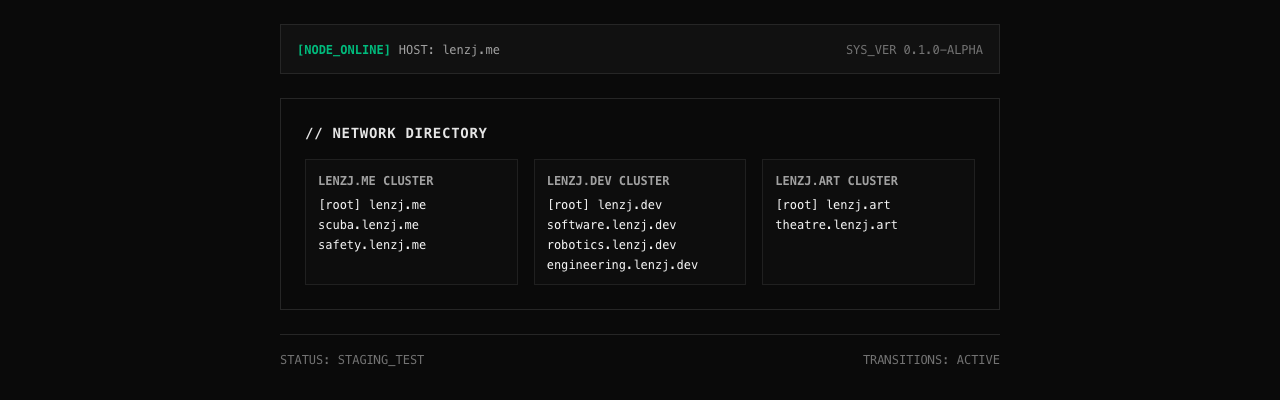
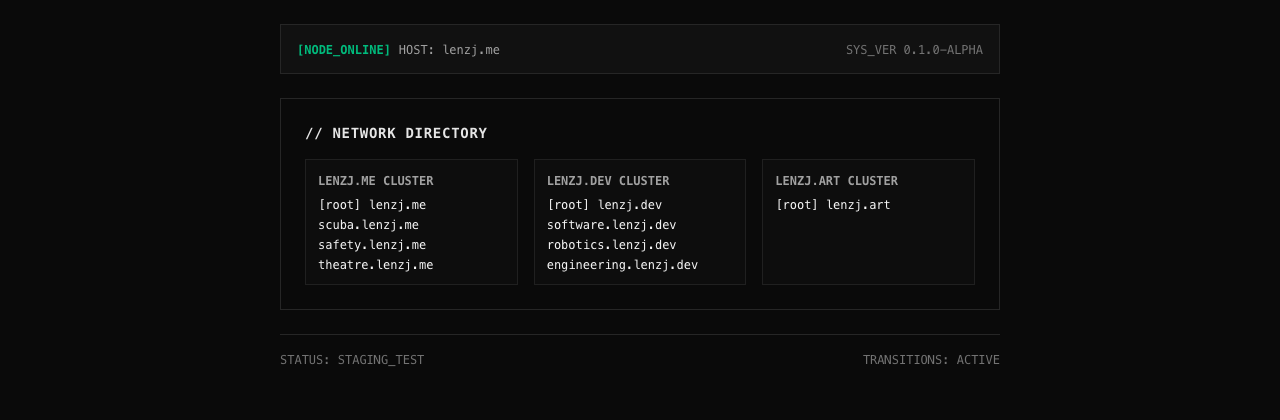
Make lenzj.art the photography site and move theatre to lenzj.me
Photography is the practice the name is for, so it takes lenzj.art at
the domain root rather than sitting on a subdomain. apps/art is renamed
to apps/photography.

Theatre moves to theatre.lenzj.me, which leaves lenzj.art as one
focused site with nothing under it.

Fixes two things the move exposed: theatre pointed home at bySite["art"],
which no longer exists and would have thrown at build, and the two
cluster-root scaffolds linked back to themselves. Root pages now show
the version string instead of a self-referencing link.

Ports renumbered so each cluster is contiguous.

diff --git a/packages/site/sites.js b/packages/site/sites.js
@@ -4,17 +4,17 @@
  */
 // prettier-ignore
 export const sites = [
-  { key: "me",          cluster: "lenzj.me",  host: "lenzj.me",              port: 3001, root: true,  title: "LENZJ.ME",    blurb: "Network root and directory." },
+  { key: "me",          cluster: "lenzj.me",  host: "lenzj.me",              port: 3001, root: true , title: "LENZJ.ME",    blurb: "Network root and directory." },
   { key: "scuba",       cluster: "lenzj.me",  host: "scuba.lenzj.me",        port: 3002, root: false, title: "SCUBA",       blurb: "Dive logs, gear, underwater work." },
   { key: "safety",      cluster: "lenzj.me",  host: "safety.lenzj.me",       port: 3003, root: false, title: "SAFETY",      blurb: "Safety practice and process." },
+  { key: "theatre",     cluster: "lenzj.me",  host: "theatre.lenzj.me",      port: 3004, root: false, title: "THEATRE",     blurb: "Stage management and production work." },
 
-  { key: "dev",         cluster: "lenzj.dev", host: "lenzj.dev",             port: 3004, root: true,  title: "LENZJ.DEV",   blurb: "Technical root." },
-  { key: "software",    cluster: "lenzj.dev", host: "software.lenzj.dev",    port: 3005, root: false, title: "SOFTWARE",    blurb: "Software projects and writing." },
-  { key: "robotics",    cluster: "lenzj.dev", host: "robotics.lenzj.dev",    port: 3006, root: false, title: "ROBOTICS",    blurb: "Robotics and embedded work." },
-  { key: "engineering", cluster: "lenzj.dev", host: "engineering.lenzj.dev", port: 3007, root: false, title: "ENGINEERING", blurb: "Engineering notes and builds." },
+  { key: "dev",         cluster: "lenzj.dev", host: "lenzj.dev",             port: 3005, root: true , title: "LENZJ.DEV",   blurb: "Technical root." },
+  { key: "software",    cluster: "lenzj.dev", host: "software.lenzj.dev",    port: 3006, root: false, title: "SOFTWARE",    blurb: "Software projects and writing." },
+  { key: "robotics",    cluster: "lenzj.dev", host: "robotics.lenzj.dev",    port: 3007, root: false, title: "ROBOTICS",    blurb: "Robotics and embedded work." },
+  { key: "engineering", cluster: "lenzj.dev", host: "engineering.lenzj.dev", port: 3008, root: false, title: "ENGINEERING", blurb: "Engineering notes and builds." },
 
-  { key: "art",         cluster: "lenzj.art", host: "lenzj.art",             port: 3008, root: true,  title: "LENZJ.ART",   blurb: "Creative root." },
-  { key: "theatre",     cluster: "lenzj.art", host: "theatre.lenzj.art",     port: 3009, root: false, title: "THEATRE",     blurb: "Theatre, design, performance." },
+  { key: "photography", cluster: "lenzj.art", host: "lenzj.art",             port: 3009, root: true , title: "PHOTOGRAPHY", blurb: "Photographic work. The practice this all started from." },
 ];
 
 export const bySite = Object.fromEntries(sites.map((s) => [s.key, s]));

diff --git a/README.md b/README.md
@@ -40,6 +40,7 @@ drift out of sync with the hostname it belongs to.
 - Hosts and ports written down once, in `packages/site/sites.js`
 - `urlFor()` returns a `localhost` port in dev and an `https://` subdomain in production, so cross-site links work in both without an edit
 - Each site generates a sitemap scoped to its own origin, because nine origins can't share one
+- `lenzj.art` is photography, at the domain root rather than on a subdomain, because that's the practice the name is for
 - Static output, no server to run
 
 ## Tech stack
@@ -127,12 +128,12 @@ There's no test suite. For nine static pages I didn't think one earned its keep.
 │   ├── me/                 lenzj.me, the directory page, the only real content
 │   ├── scuba/              scuba.lenzj.me
 │   ├── safety/             safety.lenzj.me
+│   ├── theatre/            theatre.lenzj.me
 │   ├── dev/                lenzj.dev
 │   ├── software/           software.lenzj.dev
 │   ├── robotics/           robotics.lenzj.dev
 │   ├── engineering/        engineering.lenzj.dev
-│   ├── art/                lenzj.art
-│   └── theatre/            theatre.lenzj.art
+│   └── photography/        lenzj.art, the root of the domain, not a subdomain
 ├── packages/
 │   └── site/               shared across every app
 │       ├── sites.js        the registry: hosts, ports, clusters, titles
@@ -163,9 +164,8 @@ and the word `SCAFFOLD`. I'll fill them in one at a time.
 anywhere. Each app is a static build, so it needs one project per site pointed at
 `apps/<name>` with output `apps/<name>/dist`, then the subdomain bound to it.
 
-I also own `lenzj.com` and want it redirecting to `lenzj.me`. That's a registrar
-or host redirect, so there's nothing in this repo to configure and nothing set up
-yet.
+`lenzj.com` redirects to `lenzj.me`. That's a registrar or host redirect, so
+there's nothing in this repo to configure and nothing set up yet.
 
 **No shared layout.** All nine pages repeat the same HTML shell. That's fine for
 nine near-identical scaffolds and it'll stop being fine as soon as two of them
